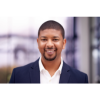
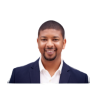
testimonials section

diff --git a/src/components/Testimonial.jsx b/src/components/Testimonial.jsx
@@ -1,38 +1,56 @@
 // import { Testimonials } from "../constants/Testimonial";
 
+import { Testimonials } from "../constants/Testimonial";
+
 const Testimonial = () => {
   return (
     <div
       id="Testimonial"
-      className=" grid place-items-center min-h-screen w-full bg-[#ffe8e7]"
+      className=" grid place-items-center min-h-screen w-full bg-[#fde4e3]"
     >
       <div>
         <h1>2000+</h1>
         <p>Regular Customers</p>
       </div>
-      <div className=" grid grid-cols-2 p-10  w-full lg:flex-row">
-        <div className=" bg-white rounded shadow-lg overflow-hidden rotate-1">
-          <figure className=" bg-white rounded shadow-lg overflow-hidden hover:rotate-2 transition duration-200">
-            <blockquote className=" p-20">
-              <div className=" mb-5 text-yellow-100">
-                <svg
-                  className="w-8 h-8 text-gray-400 dark:text-gray-600 mb-4"
-                  aria-hidden="true"
-                  xmlns="http://www.w3.org/2000/svg"
-                  fill="currentColor"
-                  viewBox="0 0 18 14"
-                >
-                  <path d="M6 0H2a2 2 0 0 0-2 2v4a2 2 0 0 0 2 2h4v1a3 3 0 0 1-3 3H2a1 1 0 0 0 0 2h1a5.006 5.006 0 0 0 5-5V2a2 2 0 0 0-2-2Zm10 0h-4a2 2 0 0 0-2 2v4a2 2 0 0 0 2 2h4v1a3 3 0 0 1-3 3h-1a1 1 0 0 0 0 2h1a5.006 5.006 0 0 0 5-5V2a2 2 0 0 0-2-2Z" />
-                </svg>
+      <div className=" grid grid-cols-2 p-10 gap-10 w-full">
+        <div className="bg-[#fde4e3] rounded-2xl shadow-lg overflow-hidden rotate-1">
+          {Testimonials.map((item, i) => (
+            <figure
+              key={i}
+              className=" bg-white rounded shadow-lg overflow-hidden rotate-1 hover:rotate-0 transition duration-200"
+            >
+              <blockquote className=" p-20">
+                <div className=" mb-5 text-yellow-100">
+                  <svg
+                    className="w-8 h-8 text-gray-400 dark:text-gray-600 mb-4"
+                    aria-hidden="true"
+                    xmlns="http://www.w3.org/2000/svg"
+                    fill="currentColor"
+                    viewBox="0 0 18 14"
+                  >
+                    <path d="M6 0H2a2 2 0 0 0-2 2v4a2 2 0 0 0 2 2h4v1a3 3 0 0 1-3 3H2a1 1 0 0 0 0 2h1a5.006 5.006 0 0 0 5-5V2a2 2 0 0 0-2-2Zm10 0h-4a2 2 0 0 0-2 2v4a2 2 0 0 0 2 2h4v1a3 3 0 0 1-3 3h-1a1 1 0 0 0 0 2h1a5.006 5.006 0 0 0 5-5V2a2 2 0 0 0-2-2Z" />
+                  </svg>
+                </div>
+                <p>&ldquo;{item.summary}&rdquo;</p>
+              </blockquote>
+              <div className=" flex items-center justify-between px-8 py-4 bg-gradient-to-br from-yellow-500 to-orange-500">
+                <div className=" flex items-center gap-5">
+                  <div className=" rounded-full border-4 w-14 h-14 border-white overflow-hidden">
+                    <img
+                      className=" h-20  w-14 object-cover rounded-ful mb-10 pb-4"
+                      src={item.image}
+                      alt="testimonial"
+                      loading="lazy"
+                    />
+                  </div>
+                  <figcaption className=" text-white font-semibold">
+                    <div>{item.name}</div>
+                    <div className=" opacity-70">Rating</div>
+                  </figcaption>
+                </div>
               </div>
-              <p className=" font-bold text-lg">Hello</p>
-            </blockquote>
-            <div className=" flex items-center justify-between px-8 py-4 bg-gradient-to-br from-yellow-500 to-orange-500">
-              <div className=" flex items-center gap-5">
-                <div className=" rounded-full border-4 w-14 h-14 border-white"></div>
-              </div>
-            </div>
-          </figure>
+            </figure>
+          ))}
         </div>
       </div>
     </div>

diff --git a/src/constants/Testimonial.jsx b/src/constants/Testimonial.jsx
@@ -1,20 +1,20 @@
 export const Testimonials = [
   {
-    image: "/src/assets/face1.png",
+    image: "/src/assets/p1.png",
     name: "Samuel Doe",
     summary:
       "Lorem ipsum dolor, sit amet consectetur adipisicing elit Rerum quo dolore cupiditate dolores iure veniam eos autem. Est adipisci in animi eligendi eum consequatur! Velit nisi consequatur assumenda impedit quos, obcaecati, optio quibusdam.",
     rating: "",
   },
   {
-    image: "/src/assets/face2.png",
+    image: "/src/assets/p2.png",
     name: "Jane Doe",
     summary:
       "Lorem ipsum dolor, sit amet consectetur adipisicing elit Rerum quo dolore cupiditate dolores iure veniam eos autem. Est adipisci in animi eligendi eum consequatur! Velit nisi consequatur assumenda impedit quos, obcaecati, optio quibusdam.",
     rating: "",
   },
   {
-    image: "/src/assets/face3.png",
+    image: "/src/assets/p3.png",
     name: "Nathan Doe",
     summary:
       "Lorem ipsum dolor, sit amet consectetur adipisicing elit Rerum quo dolore cupiditate dolores iure veniam eos autem. Est adipisci in animi eligendi eum consequatur! Velit nisi consequatur assumenda impedit quos, obcaecati, optio quibusdam.",

diff --git a/src/App.jsx b/src/App.jsx
@@ -1,23 +1,22 @@
-import './App.css'
-import Footer from './components/Footer'
-import Header from './components/Header'
-import Navbar from './components/Navbar'
-import Recommended from './components/Recommended'
-import Services from './components/Services'
-import Testimonial from './components/Testimonial'
+import "./App.css";
+import Footer from "./components/Footer";
+import Header from "./components/Header";
+import Navbar from "./components/Navbar";
+import Recommended from "./components/Recommended";
+import Services from "./components/Services";
+import Testimonial from "./components/Testimonial";
 
 function App() {
-
   return (
     <>
-      <Navbar/>
-      <Header/>
-      <Services/>
-      <Testimonial/>
-      <Recommended/>
-      <Footer/>
+      <Navbar />
+      <Header />
+      <Services />
+      <Testimonial />
+      <Recommended />
+      <Footer />
     </>
-  )
+  );
 }
 
-export default App
+export default App;
